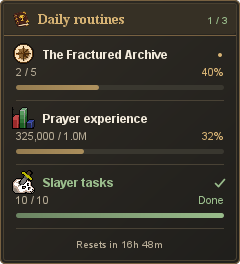
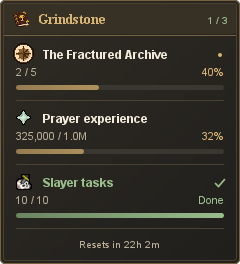
Keep overlay title and width consistent across styles

diff --git a/src/main/java/com/grindstone/overlay/GrindstoneProgressOverlay.java b/src/main/java/com/grindstone/overlay/GrindstoneProgressOverlay.java
@@ -32,6 +32,8 @@ import net.runelite.client.util.AsyncBufferedImage;
  */
 @Singleton
 public final class GrindstoneProgressOverlay extends Overlay {
+    private static final String TITLE = "Grindstone";
+    private static final int WIDTH = 240;
     private static final int SECTION_HEIGHT = 24;
     private static final int SOURCE_HEIGHT = 24;
     private static final int MAX_CACHE_PIXELS = 4_000_000;
@@ -50,6 +52,7 @@ public final class GrindstoneProgressOverlay extends Overlay {
         setPosition(OverlayPosition.TOP_LEFT);
         setLayer(OverlayLayer.ABOVE_WIDGETS);
         setPriority(PRIORITY_LOW);
+        setResizable(false);
     }
 
     public void clear() {
@@ -97,7 +100,7 @@ public final class GrindstoneProgressOverlay extends Overlay {
             height += detailHeight;
         }
         int completed = (int) visible.stream().filter(ProgressOverlayEntry::isComplete).count();
-        Snapshot next = new Snapshot(List.copyOf(rows), view, visible.size(), completed, Math.max(180, Math.min(360, config.progressOverlayWidth())), bars, grouped, theme);
+        Snapshot next = new Snapshot(List.copyOf(rows), view, visible.size(), completed, WIDTH, bars, grouped, theme);
         for (Row row : rows) {
             watchIcon(row.entry.getIcon(), next);
             if (row.detailHeight > 0) {
@@ -276,7 +279,7 @@ public final class GrindstoneProgressOverlay extends Overlay {
             OverlayStyle.icon(graphics, Icon.MAIN.getImage(), 12, 13, 22);
             graphics.setFont(OverlayStyle.HEADING_FONT);
             graphics.setColor(palette.getText());
-            graphics.drawString(OverlayStyle.fit(current.view.getTitle(), graphics.getFontMetrics(), current.width - 54), 40, 25);
+            graphics.drawString(OverlayStyle.fit(TITLE, graphics.getFontMetrics(), current.width - 54), 40, 25);
             graphics.setFont(OverlayStyle.BODY_FONT);
             graphics.setColor(palette.getMuted());
             graphics.drawString(current.view == ProgressOverlayView.MILESTONES ? current.total + " active" : current.completed + " of " + current.total + " complete", 12, 43);
@@ -286,7 +289,7 @@ public final class GrindstoneProgressOverlay extends Overlay {
         int titleX = 43;
         graphics.setFont(OverlayStyle.SMALL_FONT);
         graphics.setColor(palette.getMuted());
-        graphics.drawString("GRINDSTONE", titleX, 23);
+        graphics.drawString(current.view.getTitle(), titleX, 23);
         String tally = current.view == ProgressOverlayView.MILESTONES ? Integer.toString(current.total) : current.completed + " / " + current.total;
         int tallyWidth = graphics.getFontMetrics().stringWidth(tally) + 16;
         int tallyX = current.width - tallyWidth - 12;
@@ -296,7 +299,7 @@ public final class GrindstoneProgressOverlay extends Overlay {
         graphics.drawString(tally, tallyX + 8, 45);
         graphics.setFont(OverlayStyle.HEADING_FONT);
         graphics.setColor(palette.getText());
-        graphics.drawString(OverlayStyle.fit(current.view.getTitle(), graphics.getFontMetrics(), tallyX - titleX - 6), titleX, 44);
+        graphics.drawString(OverlayStyle.fit(TITLE, graphics.getFontMetrics(), tallyX - titleX - 6), titleX, 44);
     }
 
     private static void renderGuildHeader(Graphics2D graphics, Snapshot current, OverlayStyle.Palette palette) {
@@ -312,7 +315,7 @@ public final class GrindstoneProgressOverlay extends Overlay {
         graphics.drawString(tally, current.width - 12 - tallyWidth, 24);
         graphics.setFont(OverlayStyle.GUILD_HEADING_FONT);
         graphics.setColor(palette.getAccent());
-        graphics.drawString(OverlayStyle.fit(current.view.getTitle(), graphics.getFontMetrics(), current.width - tallyWidth - 62), 38, 24);
+        graphics.drawString(OverlayStyle.fit(TITLE, graphics.getFontMetrics(), current.width - tallyWidth - 62), 38, 24);
     }
 
     private static void renderEntry(Graphics2D graphics, Row row, int width, int y, boolean bars) {

diff --git a/src/main/java/com/grindstone/config/GrindstoneConfig.java b/src/main/java/com/grindstone/config/GrindstoneConfig.java
@@ -149,8 +149,7 @@ public interface GrindstoneConfig extends Config {
         return 8;
     }
 
-    @Range(min = 180, max = 360)
-    @ConfigItem(keyName = "progressOverlayWidth", name = "Width (pixels)", description = "Overlay width in pixels.", section = OVERLAY_SECTION, position = 4)
+    @ConfigItem(keyName = "progressOverlayWidth", name = "Width (pixels)", description = "Overlay width in pixels.", section = OVERLAY_SECTION, position = 4, hidden = true)
     default int progressOverlayWidth() {
         return 240;
     }

diff --git a/README.md b/README.md
@@ -55,7 +55,7 @@ Add personal deadlines and optional reminders without changing the game's reset 
 
 ## Progress beside the game
 
-Enable **RuneLite settings → Grindstone → Progress overlay**. Choose daily routines, all routines, milestones, pinned entries or all tracked. Hold **Alt** and drag to reposition it; adjust its width, entry limit and progress bars in settings.
+Enable **RuneLite settings → Grindstone → Progress overlay**. Choose daily routines, all routines, milestones, pinned entries or all tracked. Hold **Alt** and drag to reposition it. Adjust the entry limit and progress bars in settings.
 
 ### Guild — default
 
